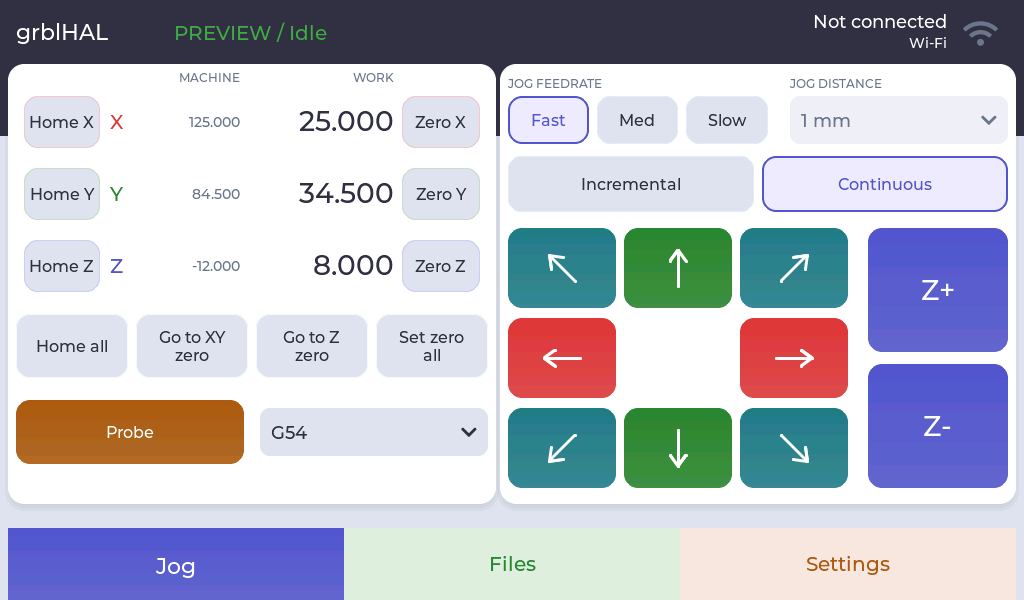
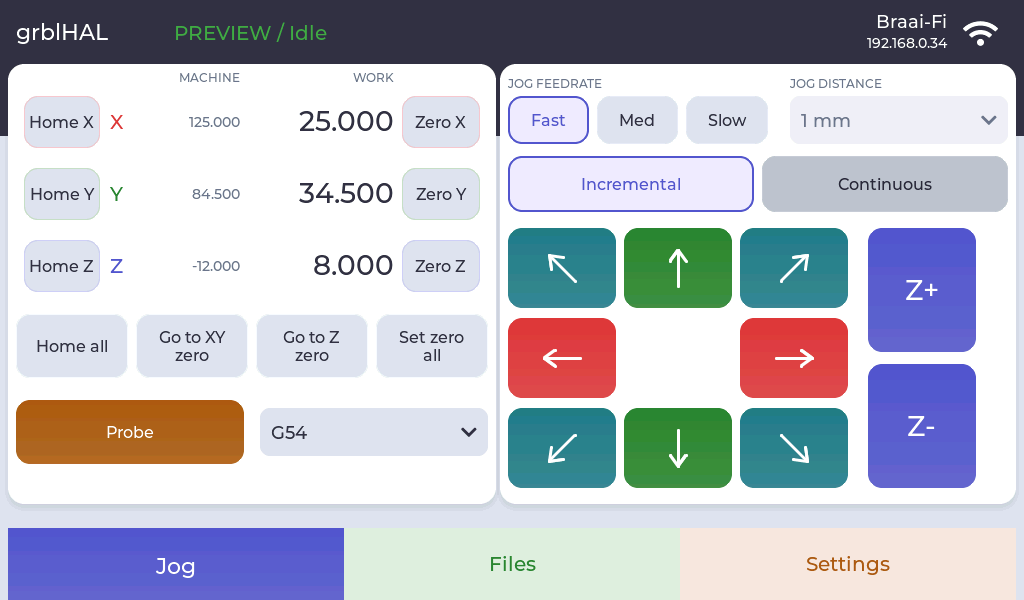
Confirm job stops and center matching-width jog controls

Changed region(s): [[0.5, 0.24, 1.0, 0.81], [0.7812, 0.03, 0.9688, 0.09], [0.5, 0.24, 0.7188, 0.27]]

diff --git a/firmware/viewesmart-p4/main/panel_ui.cpp b/firmware/viewesmart-p4/main/panel_ui.cpp
@@ -498,7 +498,13 @@ static void value_button(lv_obj_t *p, const char *title, float value, int x, int
              value / (id < 8 ? display_scale(inches) : 1));
     button(p, text, x, y, w, 66, edit_value, id);
 }
-static bool stop() { return runtime_action(Action::Stop); }
+static bool stop() {
+    release_jog();
+    bool ok = runtime_action(Action::Stop);
+    if (ok)
+        show_page(JogPage);
+    return ok;
+}
 static bool home() {
     char axis[] = {home_axis, 0};
     return runtime_action(Action::Home, home_axis ? axis : nullptr);
@@ -518,12 +524,7 @@ static void home_click(lv_event_t *e) {
 }
 static void stop_click(lv_event_t *) {
     probe_return = false;
-    close_modal();
-    release_jog();
-    if (stop())
-        show_page(JogPage);
-    else
-        result(false);
+    confirm("Stop job?", "Are you sure you want to stop this job?\nThe controller will reset and the job cannot resume.", stop, RED);
 }
 static void pause_click(lv_event_t *) { result(runtime_action(Action::Pause)); }
 static void resume_click(lv_event_t *) { result(runtime_action(Action::Resume)); }
@@ -1043,9 +1044,9 @@ static void build_page() {
         const uint32_t colors[] = {XY_COLOR, AXIS_COLORS[1], XY_COLOR, AXIS_COLORS[0], AXIS_COLORS[0],
                                    XY_COLOR, AXIS_COLORS[1], XY_COLOR, AXIS_COLORS[2], AXIS_COLORS[2]};
         for (int i = 0; i < 10; i++) {
-            int x = i < 8 ? (cells[i] % 3) * 116 : 360;
+            int x = 16 + (i < 8 ? (cells[i] % 3) * 116 : 360);
             int y = i < 8 ? 152 + (cells[i] / 3) * 90 : (i == 8 ? 152 : 288);
-            lv_obj_t *b = button(body, names[i], x, y, i < 8 ? 108 : 140, i < 8 ? 80 : 124, nullptr, 0,
+            lv_obj_t *b = button(body, names[i], x, y, 108, i < 8 ? 80 : 124, nullptr, 0,
                                  colors[i]);
             lv_obj_set_style_text_font(lv_obj_get_child(b, 0), font(28), 0);
             if (i < 8)
@@ -1425,7 +1426,7 @@ extern "C" void panel_ui_create() {
     lv_obj_set_style_border_width(body, 0, 0);
 
     stop_btn = button(root, "Stop", 260, 330, 228, 80, nullptr, 0, RED);
-    lv_obj_add_event_cb(stop_btn, stop_click, LV_EVENT_PRESSED, nullptr);
+    lv_obj_add_event_cb(stop_btn, stop_click, LV_EVENT_CLICKED, nullptr);
     lv_obj_set_style_text_font(lv_obj_get_child(stop_btn, 0), font(22), 0);
     lv_obj_add_event_cb(state_label, recover, LV_EVENT_CLICKED, nullptr);
     build_page();

diff --git a/tools/check-jog.py b/tools/check-jog.py
@@ -49,17 +49,17 @@ with serial.Serial(port=None, baudrate=115200, timeout=1, write_timeout=5) as po
         command("RX $112=1200")
         tap(548, 120)  # Fast
         idle()
-        tap(562, 268)  # X- Y+
+        tap(578, 268)  # X- Y+
         last = command("LAST")
         assert "$J=G91 G21 X-" in last and " Y" in last and "0x85" not in last, last
         assert "F3000.0" in last, last
         command("RX ok")
         idle()
-        tap(678, 358)  # Empty centre must not send a command
+        tap(694, 358)  # Empty centre must not send a command
         assert command("LAST") == last
         for x, rate in ((638, "F1500.0"), (728, "F750.0")):
             tap(x, 120)
-            tap(562, 268)
+            tap(578, 268)
             assert rate in command("LAST")
             command("RX ok")
             idle()
@@ -69,7 +69,7 @@ with serial.Serial(port=None, baudrate=115200, timeout=1, write_timeout=5) as po
         idle()
         tap(548, 120)
         tap(885, 184)  # Continuous
-        command("HOLD 562 268 700")
+        command("HOLD 578 268 700")
         assert "0x85" in command("LAST")
         time.sleep(.5)
         assert "0x85" in command("LAST"), "Jog queued after release"
@@ -111,7 +111,10 @@ with serial.Serial(port=None, baudrate=115200, timeout=1, write_timeout=5) as po
         tap(512, 564)  # Navigation is locked during the job
         tap(374, 370)  # Job Stop below the DRO
         data = json.loads(command("STATE").removeprefix("@UGDATA "))
-        assert not data["job"], "Stop opened a dialog or left the job running"
+        assert data["job"], "Stop skipped confirmation"
+        tap(630, 409)
+        data = json.loads(command("STATE").removeprefix("@UGDATA "))
+        assert not data["job"], "Confirmed Stop left the job running"
         tap(88, 560)
         # A confirmation can be cancelled without issuing motion.
         idle()
@@ -119,7 +122,7 @@ with serial.Serial(port=None, baudrate=115200, timeout=1, write_timeout=5) as po
         tap(342, 409)  # Cancel without homing
         time.sleep(.5)
         idle()
-        tap(562, 268)
+        tap(578, 268)
         assert "$J=G91 G21 X-" in command("LAST"), "Dialog remained over jog controls"
         command("RX ok")
         idle()

diff --git a/tools/check-workflow.py b/tools/check-workflow.py
@@ -140,7 +140,18 @@ with serial.Serial(port=None, baudrate=115200, timeout=1, write_timeout=5) as po
         command("RX <Run|SD:5,/bracket.nc|Ov:100,100,100>")
         time.sleep(.3)
         page(3)
+        last = command("LAST")
         tap(374, 370)
+        page(3)
+        assert data("STATE")["job"], "Stop skipped confirmation"
+        assert command("LAST") == last, "Stop sent a command before confirmation"
+        shot("panel-stop-confirm")
+        tap(342, 409)  # Cancel must leave the running job untouched.
+        page(3)
+        assert data("STATE")["job"]
+        assert command("LAST") == last
+        tap(374, 370)
+        tap(630, 409)
         time.sleep(.7)
         page(0)
         assert not data("STATE")["job"]
@@ -151,6 +162,7 @@ with serial.Serial(port=None, baudrate=115200, timeout=1, write_timeout=5) as po
         shot("panel-alarm")
         tap(342, 409)  # Dismiss the fault dialog
         tap(374, 370)  # Job Stop remains below the DRO
+        tap(630, 409)
         time.sleep(.7)
         page(0)
         assert not data("STATE")["job"]

diff --git a/tools/capture-gallery.py b/tools/capture-gallery.py
@@ -195,6 +195,9 @@ def main():
                 tap(630, 409)
                 command("RX <Run|SD:42.5,/bracket.nc|MPos:125,84.5,-12|FS:800,12000|Ov:100,100,100>")
                 shot("panel-job")
+                tap(374, 370)
+                shot("panel-stop-confirm")
+                tap(342, 409)
                 tap(130, 370)
                 shot("panel-job-paused")
                 tap(130, 370)

diff --git a/README.md b/README.md
@@ -38,7 +38,7 @@ controller’s reported values. Setup navigation is hidden until the job ends.
 After Job Complete is acknowledged, the pendant returns to Jog.
 
 Alarms and command errors appear in red dialogs. The header fault indicator
-reopens the current fault. Job Stop sends a controller reset; check position
+reopens the current fault. Job Stop asks for confirmation before sending a controller reset; check position
 and re-home as needed afterward. Emergency stopping remains a hardware function.
 
 The toolpath viewer supports G0/G1 and IJK G2/G3 arcs in G17/G18/G19, absolute
@@ -198,6 +198,10 @@ sample data from demonstration mode; Wi-Fi uses the onboard radio.
 **Paused**
 
 ![Paused job with Resume control](docs/screenshots/panel-job-paused.png)
+
+**Stop confirmation**
+
+![Confirm stopping a job](docs/screenshots/panel-stop-confirm.png)
 
 **Complete**
 

diff --git a/AGENTS.md b/AGENTS.md
@@ -190,7 +190,7 @@ Home tabs. G54-G59 uses a dropdown on Jog. Keep labels short; omit instructional
 filler such as "tap once" and "move the set distance". Settings uses labelled rows.
 
 The controller has physical E-stop buttons. There is no global on-screen STOP.
-Job Stop sends Ctrl-X on touch-down without confirmation, below the DROs.
+Job Stop opens a confirmation below the DROs; only Confirm sends Ctrl-X.
 Keep confirmations for homing, zeroing, probing and starting jobs.
 Keep per-axis Home/Zero on each Jog DRO, with Home all, Go to XY zero, Go to Z zero
 and Set zero all directly below. Set zero changes offsets; Go to zero moves.
